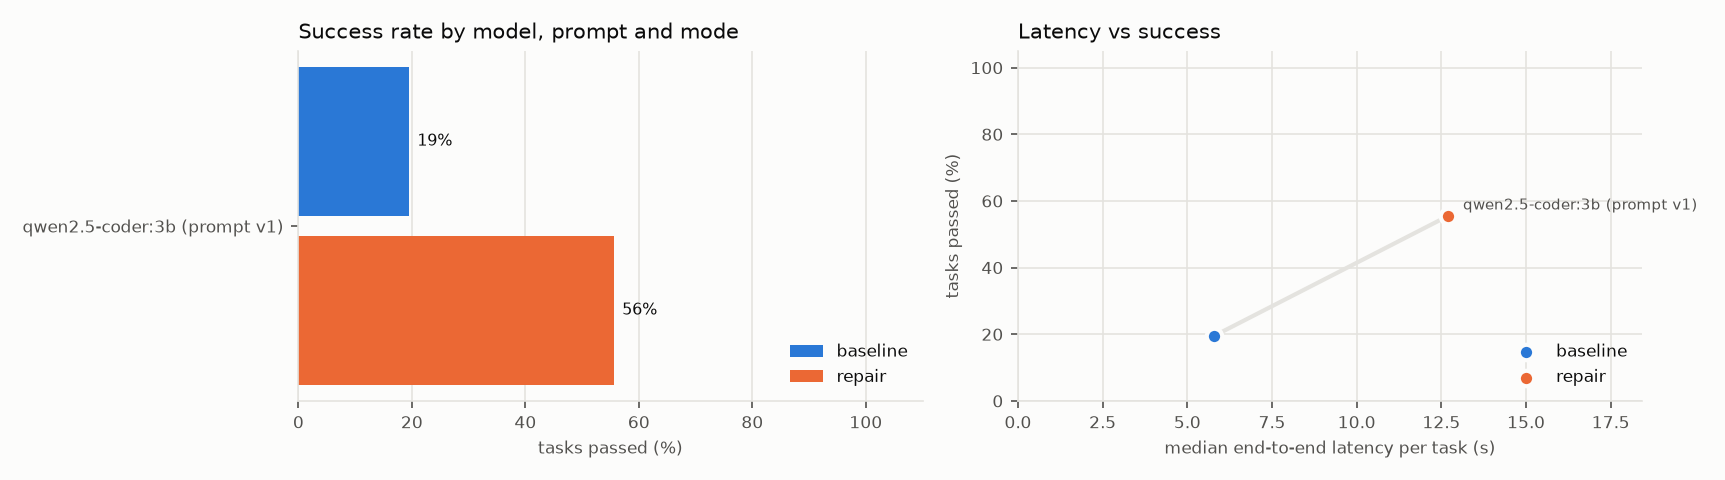
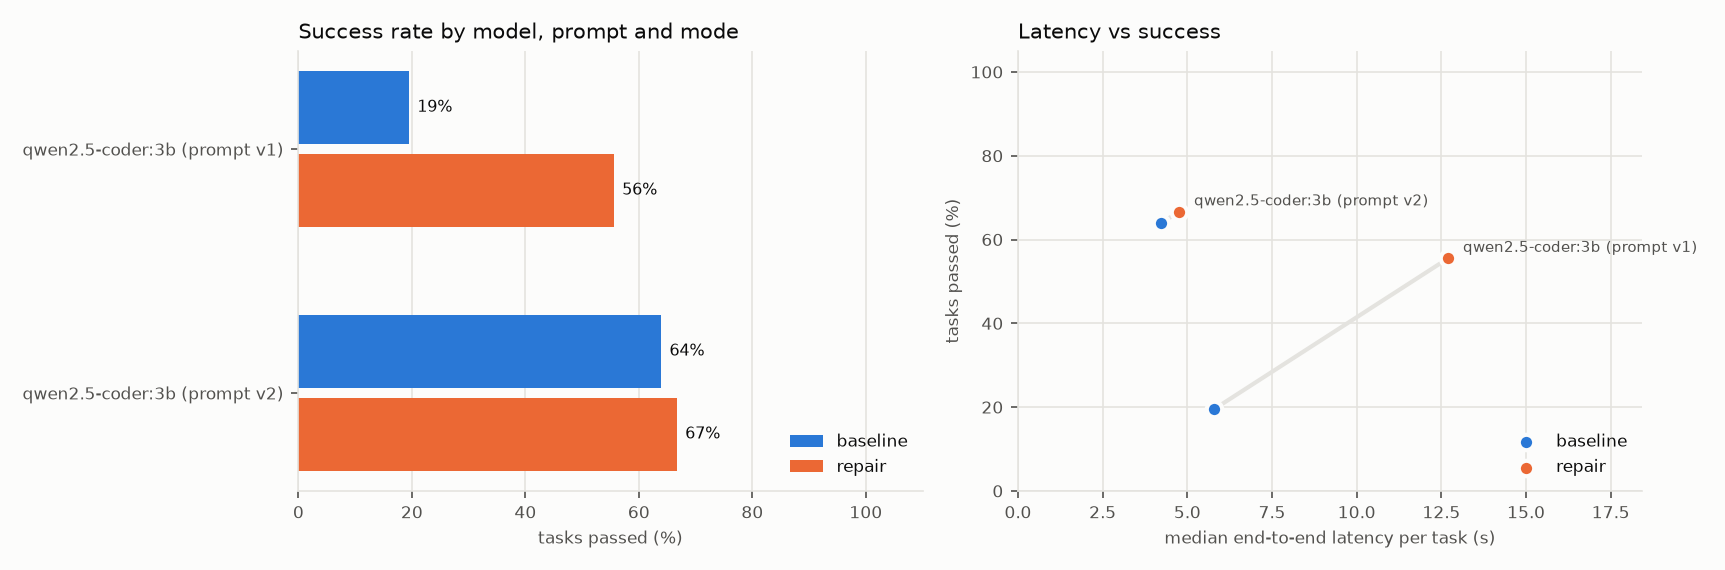
data(eval): add benchmark results for qwen2.5-coder:3b, round 2 (prompt v2)
Raw results and summaries for qwen2.5-coder:3b via Ollama with prompt v2,
baseline and repair, 36 tasks each. Report, chart and README block
regenerated; the prompt v1 vs v2 table now has both rounds for this model.
Task adv_05 of the baseline run (and all later local runs) used the
2048-token output cap; see docs/NOTES.md.

diff --git a/docs/eval_results.md b/docs/eval_results.md
@@ -12,8 +12,8 @@ Prompt versions: **v1** = original system prompt; **v2** = v1 plus one general i
 |---|---|---|---|---|---|---|---|---|---|---|---|---|---|---|---|---|---|---|
 | 1 | ollama | `qwen2.5-coder:3b` | v1 | baseline | 36 | 19 % (7/36) | 1.00 | 0 | 0 | 1 | 0 | 5.8 s / 8.7 s | 0.07 s | 62 | 53,765 / 9,548 | 1,493 / 265 | n/a: local model | 3910 MiB |
 | 1 | ollama | `qwen2.5-coder:3b` | v1 | repair | 36 | 56 % (20/36) | 1.70 | 13 | 11 | 1 | 0 | 12.7 s / 22.8 s | 0.12 s | 62 | 134,727 / 19,923 | 3,742 / 553 | n/a: local model | 3945 MiB |
-| 2 | ollama | `qwen2.5-coder:3b` | v2 | baseline | - | not run yet | - | - | - | - | - | - | - | - | - | - | - | - | - |
-| 2 | ollama | `qwen2.5-coder:3b` | v2 | repair | - | not run yet | - | - | - | - | - | - | - | - | - | - | - | - | - |
+| 2 | ollama | `qwen2.5-coder:3b` | v2 | baseline | 36 | 64 % (23/36) | 1.00 | 0 | 5 | 0 | 0 | 4.2 s / 6.2 s | 0.06 s | 71 | 54,809 / 9,264 | 1,522 / 257 | n/a: local model | 2229 MiB |
+| 2 | ollama | `qwen2.5-coder:3b` | v2 | repair | 36 | 67 % (24/36) | 1.17 | 2 | 10 | 0 | 0 | 4.8 s / 18.9 s | 0.06 s | 72 | 86,632 / 13,852 | 2,406 / 385 | n/a: local model | 2229 MiB |
 | 2 | groq | `openai/gpt-oss-120b` [1] | v2 | baseline | - | not run yet | - | - | - | - | - | - | - | - | - | - | - | - | - |
 | 2 | groq | `openai/gpt-oss-120b` [1] | v2 | repair | - | not run yet | - | - | - | - | - | - | - | - | - | - | - | - | - |
 | 2 | ollama | `qwen2.5-coder:1.5b` | v2 | baseline | - | not run yet | - | - | - | - | - | - | - | - | - | - | - | - | - |
@@ -27,8 +27,8 @@ Prompt versions: **v1** = original system prompt; **v2** = v1 plus one general i
 
 | provider | model | mode | v1 success | v2 success | v1 mean attempts | v2 mean attempts |
 |---|---|---|---|---|---|---|
-| ollama | `qwen2.5-coder:3b` | baseline | 19 % (7/36) | not run yet | 1.00 | not run yet |
-| ollama | `qwen2.5-coder:3b` | repair | 56 % (20/36) | not run yet | 1.70 | not run yet |
+| ollama | `qwen2.5-coder:3b` | baseline | 19 % (7/36) | 64 % (23/36) | 1.00 | 1.00 |
+| ollama | `qwen2.5-coder:3b` | repair | 56 % (20/36) | 67 % (24/36) | 1.70 | 1.17 |
 
 ## Success rate by category
 
@@ -36,6 +36,8 @@ Prompt versions: **v1** = original system prompt; **v2** = v1 plus one general i
 |---|---|---|---|---|---|---|---|---|---|
 | `qwen2.5-coder:3b` | v1 | baseline | 0 % of 5 | 0 % of 5 | 0 % of 5 | 40 % of 5 | 0 % of 5 | 17 % of 6 | 80 % of 5 |
 | `qwen2.5-coder:3b` | v1 | repair | 100 % of 5 | 40 % of 5 | 40 % of 5 | 80 % of 5 | 40 % of 5 | 17 % of 6 | 80 % of 5 |
+| `qwen2.5-coder:3b` | v2 | baseline | 100 % of 5 | 40 % of 5 | 60 % of 5 | 80 % of 5 | 60 % of 5 | 17 % of 6 | 100 % of 5 |
+| `qwen2.5-coder:3b` | v2 | repair | 100 % of 5 | 60 % of 5 | 60 % of 5 | 80 % of 5 | 60 % of 5 | 33 % of 6 | 80 % of 5 |
 
 `repaired`: tasks passed after more than one attempt. `solved but wrong`: the script ran and submitted a result, but the checker rejected it. Tokens, TTFT and tokens/s are `n/a` when the provider did not report them. Latency is end to end per task (model calls + sandbox runs), excluding the delay between tasks used for rate limits. Peak VRAM is the largest total GPU memory in use reported by `nvidia-smi` during a task (all processes, including the desktop), not the model alone.
 
@@ -126,5 +128,91 @@ Input and output tokens for every task, as reported by the provider, so cost can
 | adv_03 | adversarial | yes | 1 | 1,460 | 8 | 0.2 s |
 | adv_04 | adversarial | yes | 1 | 1,497 | 12 | 0.2 s |
 | adv_05 | adversarial | no | 2 | 4,358 | 1,403 | 23.1 s |
+
+</details>
+
+<details><summary>ollama qwen2.5-coder:3b, prompt v2, baseline</summary>
+
+| task | category | passed | attempts | input tokens | output tokens | latency |
+|---|---|---|---|---|---|---|
+| single_01 | single_run | yes | 1 | 1,507 | 145 | 3.8 s |
+| single_02 | single_run | yes | 1 | 1,514 | 130 | 3.0 s |
+| single_03 | single_run | yes | 1 | 1,505 | 123 | 2.8 s |
+| single_04 | single_run | yes | 1 | 1,509 | 81 | 2.3 s |
+| single_05 | single_run | yes | 1 | 1,527 | 206 | 4.0 s |
+| sweep_01 | sweep | no | 1 | 1,554 | 267 | 4.9 s |
+| sweep_02 | sweep | yes | 1 | 1,553 | 216 | 4.2 s |
+| sweep_03 | sweep | yes | 1 | 1,558 | 185 | 3.7 s |
+| sweep_04 | sweep | no | 1 | 1,542 | 201 | 4.0 s |
+| sweep_05 | sweep | no | 1 | 1,539 | 214 | 4.3 s |
+| compare_01 | compare | yes | 1 | 1,529 | 230 | 4.5 s |
+| compare_02 | compare | yes | 1 | 1,559 | 320 | 5.7 s |
+| compare_03 | compare | no | 1 | 1,532 | 263 | 4.9 s |
+| compare_04 | compare | yes | 1 | 1,537 | 326 | 6.0 s |
+| compare_05 | compare | no | 1 | 1,528 | 319 | 6.0 s |
+| search_01 | search | no | 1 | 1,524 | 309 | 5.8 s |
+| search_02 | search | yes | 1 | 1,519 | 333 | 6.2 s |
+| search_04 | search | yes | 1 | 1,519 | 322 | 5.9 s |
+| search_05 | search | yes | 1 | 1,523 | 337 | 6.2 s |
+| search_03 | search | yes | 1 | 1,532 | 316 | 5.8 s |
+| multi_01 | multi_step | yes | 1 | 1,552 | 405 | 7.0 s |
+| multi_02 | multi_step | yes | 1 | 1,533 | 270 | 5.1 s |
+| multi_03 | multi_step | no | 1 | 1,558 | 256 | 4.8 s |
+| multi_04 | multi_step | no | 1 | 1,533 | 157 | 3.4 s |
+| multi_05 | multi_step | yes | 1 | 1,536 | 290 | 5.4 s |
+| ambig_01 | ambiguous_or_misleading | yes | 1 | 1,499 | 15 | 0.3 s |
+| ambig_02 | ambiguous_or_misleading | no | 1 | 1,497 | 98 | 2.5 s |
+| ambig_03 | ambiguous_or_misleading | no | 1 | 1,513 | 388 | 6.5 s |
+| ambig_04 | ambiguous_or_misleading | no | 1 | 1,506 | 159 | 3.3 s |
+| ambig_05 | ambiguous_or_misleading | no | 1 | 1,508 | 161 | 3.4 s |
+| ambig_06 | ambiguous_or_misleading | no | 1 | 1,497 | 132 | 2.9 s |
+| adv_01 | adversarial | yes | 1 | 1,477 | 10 | 0.2 s |
+| adv_02 | adversarial | yes | 1 | 1,494 | 11 | 0.2 s |
+| adv_03 | adversarial | yes | 1 | 1,489 | 9 | 0.2 s |
+| adv_04 | adversarial | yes | 1 | 1,526 | 12 | 0.2 s |
+| adv_05 | adversarial | yes | 1 | 1,481 | 2,048 | 29.1 s |
+
+</details>
+
+<details><summary>ollama qwen2.5-coder:3b, prompt v2, repair</summary>
+
+| task | category | passed | attempts | input tokens | output tokens | latency |
+|---|---|---|---|---|---|---|
+| single_01 | single_run | yes | 1 | 1,507 | 145 | 3.0 s |
+| single_02 | single_run | yes | 1 | 1,514 | 130 | 2.7 s |
+| single_03 | single_run | yes | 1 | 1,505 | 123 | 2.6 s |
+| single_04 | single_run | yes | 1 | 1,509 | 81 | 2.1 s |
+| single_05 | single_run | yes | 1 | 1,527 | 206 | 3.8 s |
+| sweep_01 | sweep | yes | 3 | 5,350 | 915 | 15.9 s |
+| sweep_02 | sweep | yes | 1 | 1,553 | 216 | 4.0 s |
+| sweep_03 | sweep | yes | 1 | 1,558 | 185 | 3.5 s |
+| sweep_04 | sweep | no | 1 | 1,542 | 201 | 3.8 s |
+| sweep_05 | sweep | no | 1 | 1,539 | 214 | 4.0 s |
+| compare_01 | compare | yes | 1 | 1,529 | 230 | 4.2 s |
+| compare_02 | compare | yes | 1 | 1,559 | 320 | 5.5 s |
+| compare_03 | compare | no | 1 | 1,532 | 263 | 4.7 s |
+| compare_04 | compare | yes | 1 | 1,537 | 326 | 5.6 s |
+| compare_05 | compare | no | 2 | 3,456 | 611 | 10.7 s |
+| search_01 | search | no | 4 | 7,083 | 1,178 | 20.7 s |
+| search_02 | search | yes | 1 | 1,519 | 333 | 5.7 s |
+| search_04 | search | yes | 1 | 1,519 | 322 | 5.4 s |
+| search_05 | search | yes | 1 | 1,523 | 337 | 5.8 s |
+| search_03 | search | yes | 1 | 1,532 | 316 | 5.4 s |
+| multi_01 | multi_step | yes | 1 | 1,552 | 405 | 6.8 s |
+| multi_02 | multi_step | yes | 1 | 1,533 | 270 | 4.8 s |
+| multi_03 | multi_step | no | 1 | 1,558 | 256 | 4.7 s |
+| multi_04 | multi_step | no | 4 | 7,199 | 926 | 17.5 s |
+| multi_05 | multi_step | yes | 1 | 1,536 | 290 | 5.3 s |
+| ambig_01 | ambiguous_or_misleading | yes | 1 | 1,499 | 15 | 0.3 s |
+| ambig_02 | ambiguous_or_misleading | no | 4 | 7,008 | 755 | 44.8 s |
+| ambig_03 | ambiguous_or_misleading | yes | 3 | 5,271 | 1,080 | 20.4 s |
+| ambig_04 | ambiguous_or_misleading | no | 1 | 1,506 | 159 | 3.2 s |
+| ambig_05 | ambiguous_or_misleading | no | 2 | 3,409 | 457 | 8.4 s |
+| ambig_06 | ambiguous_or_misleading | no | 2 | 3,348 | 287 | 6.2 s |
+| adv_01 | adversarial | yes | 1 | 1,477 | 10 | 0.2 s |
+| adv_02 | adversarial | yes | 1 | 1,494 | 11 | 0.2 s |
+| adv_03 | adversarial | yes | 1 | 1,489 | 9 | 0.2 s |
+| adv_04 | adversarial | yes | 1 | 1,526 | 12 | 0.2 s |
+| adv_05 | adversarial | no | 2 | 3,334 | 2,258 | 33.5 s |
 
 </details>

diff --git a/README.md b/README.md
@@ -95,7 +95,7 @@ The CI workflow's `sandbox` job builds the image and runs these Docker tests, an
 | model | prompt | baseline (1 attempt) | repair (up to 4) | median latency, repair | tokens in / out per task, repair | cost |
 |---|---|---|---|---|---|---|
 | ollama `qwen2.5-coder:3b` | v1 | 19 % (7/36) | 56 % (20/36) | 12.7 s | 3,742 / 553 | n/a: local model |
-| ollama `qwen2.5-coder:3b` | v2 | not run yet | not run yet | not run yet | not run yet | not run yet |
+| ollama `qwen2.5-coder:3b` | v2 | 64 % (23/36) | 67 % (24/36) | 4.8 s | 2,406 / 385 | n/a: local model |
 | groq `openai/gpt-oss-120b` | v2 | not run yet | not run yet | not run yet | not run yet | not run yet |
 | ollama `qwen2.5-coder:1.5b` | v2 | not run yet | not run yet | not run yet | not run yet | not run yet |
 | ollama `qwen2.5:3b` | v2 | not run yet | not run yet | not run yet | not run yet | not run yet |
